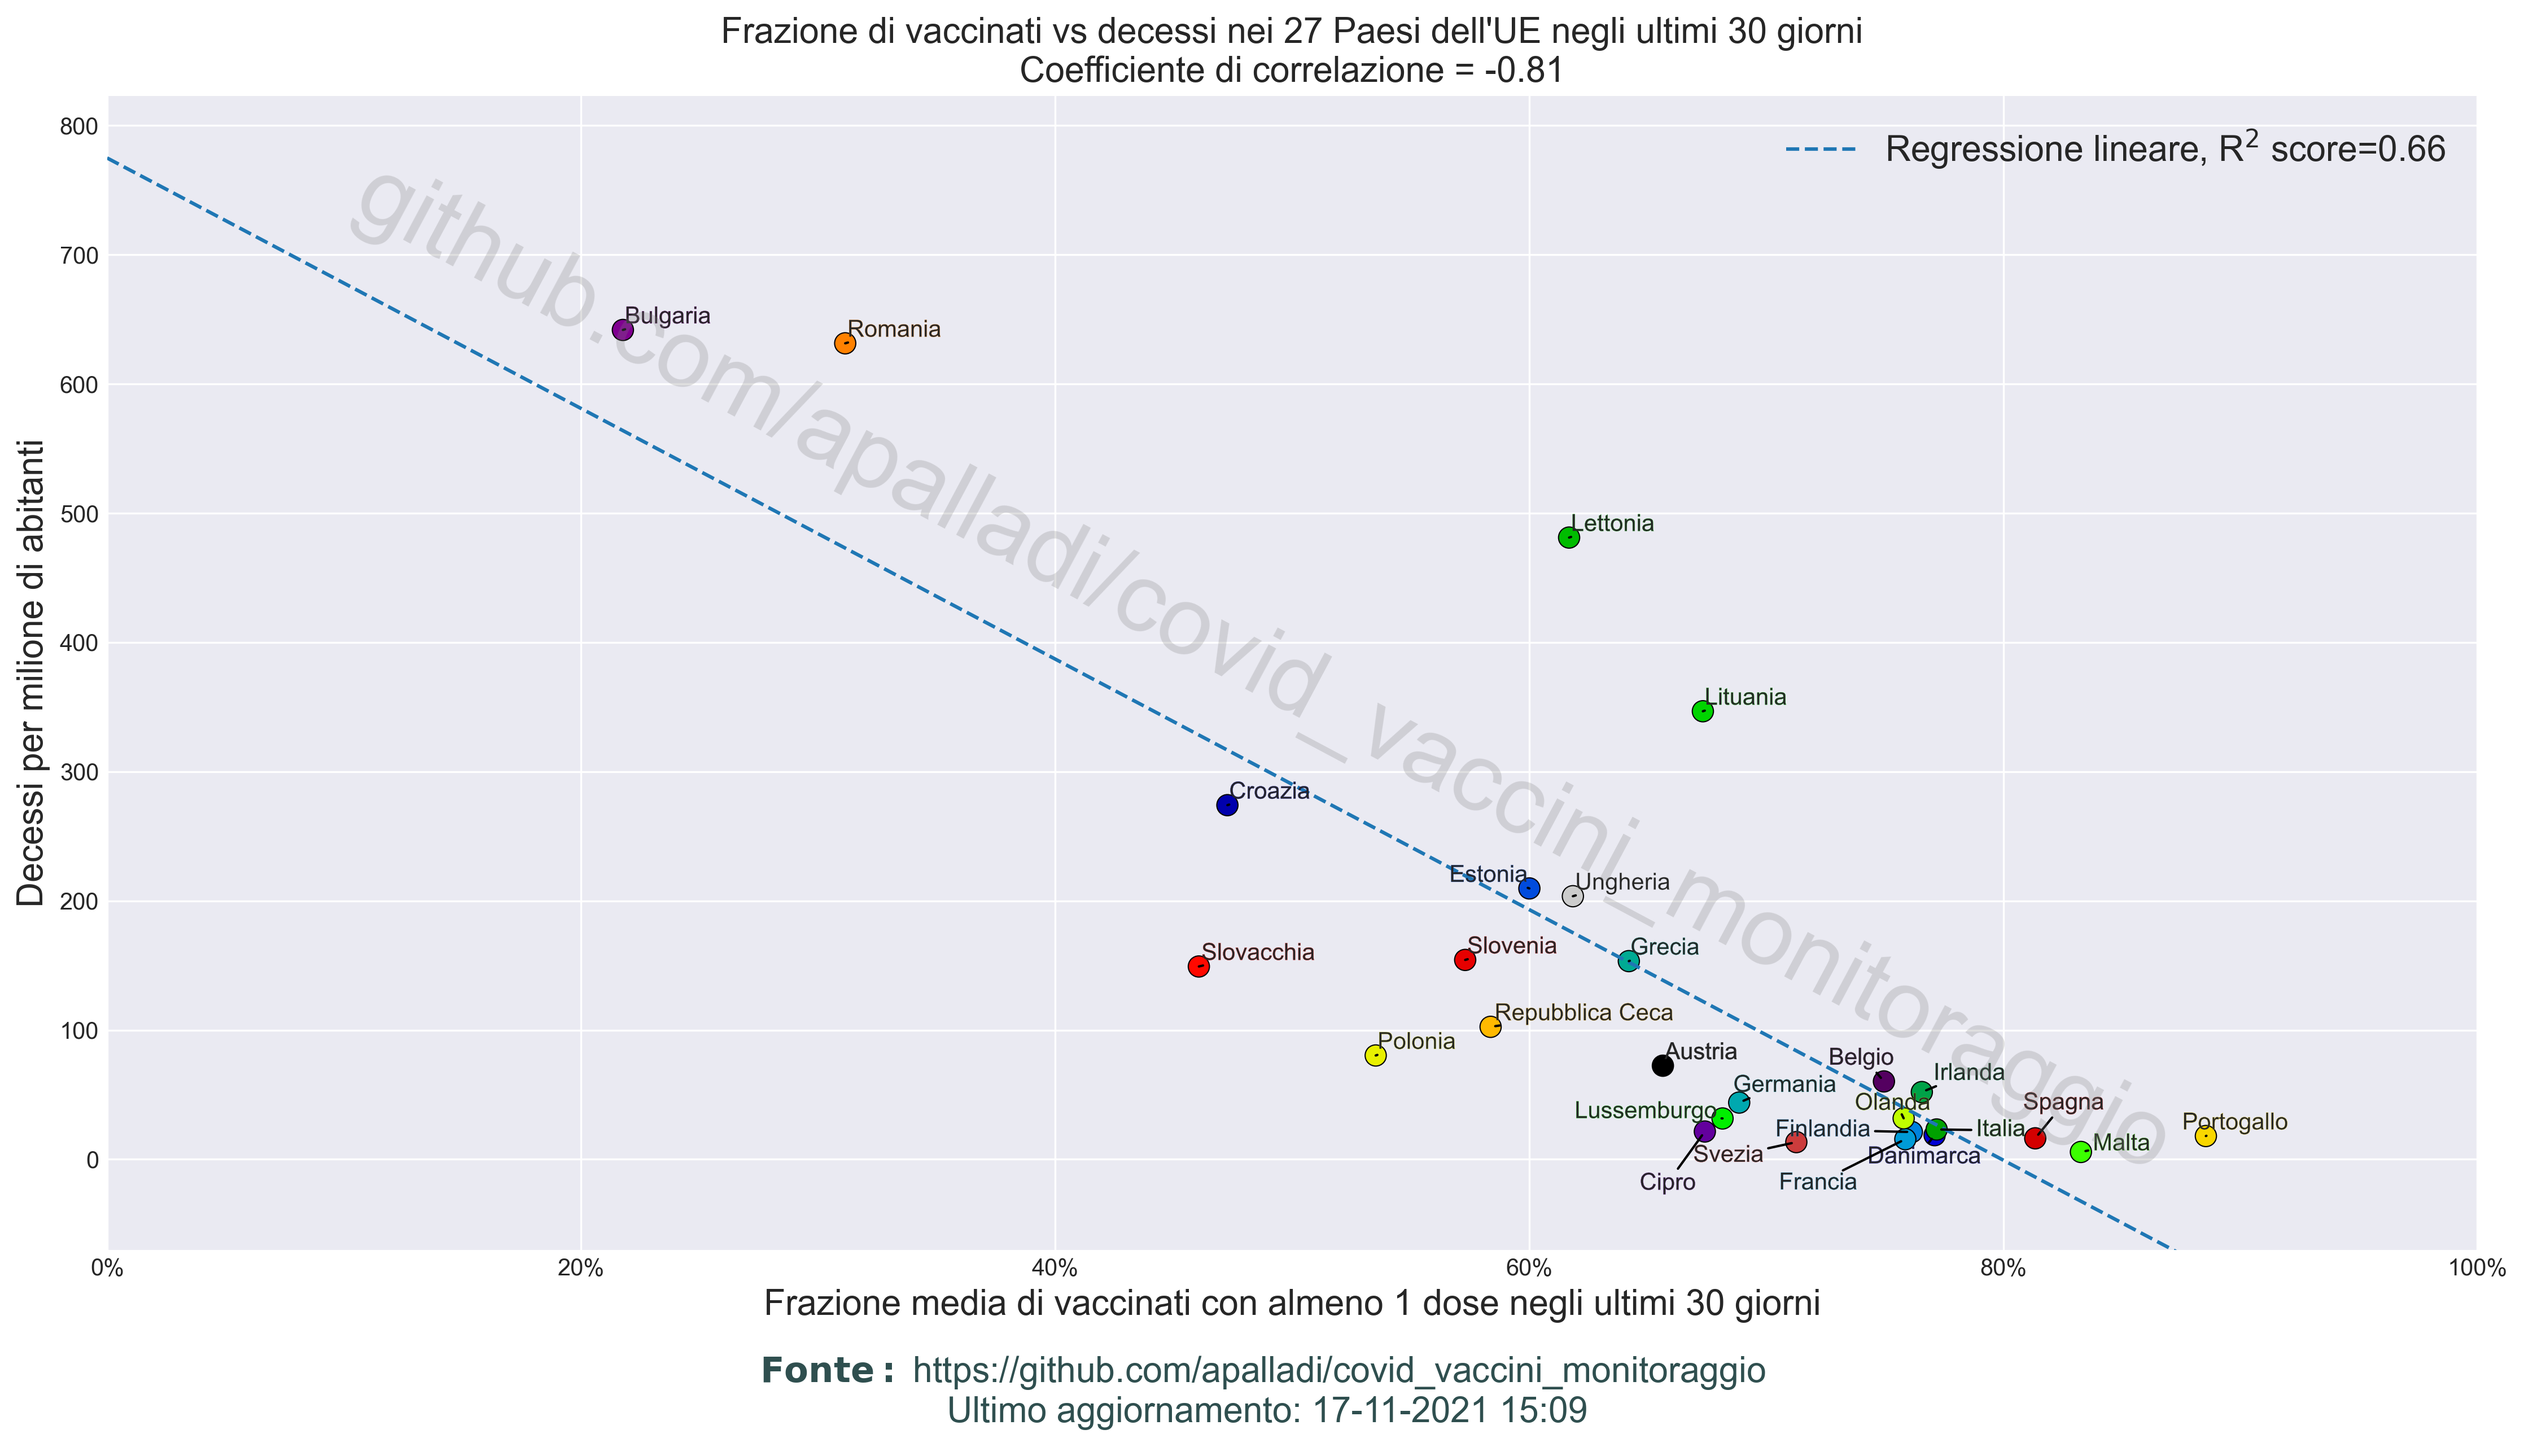
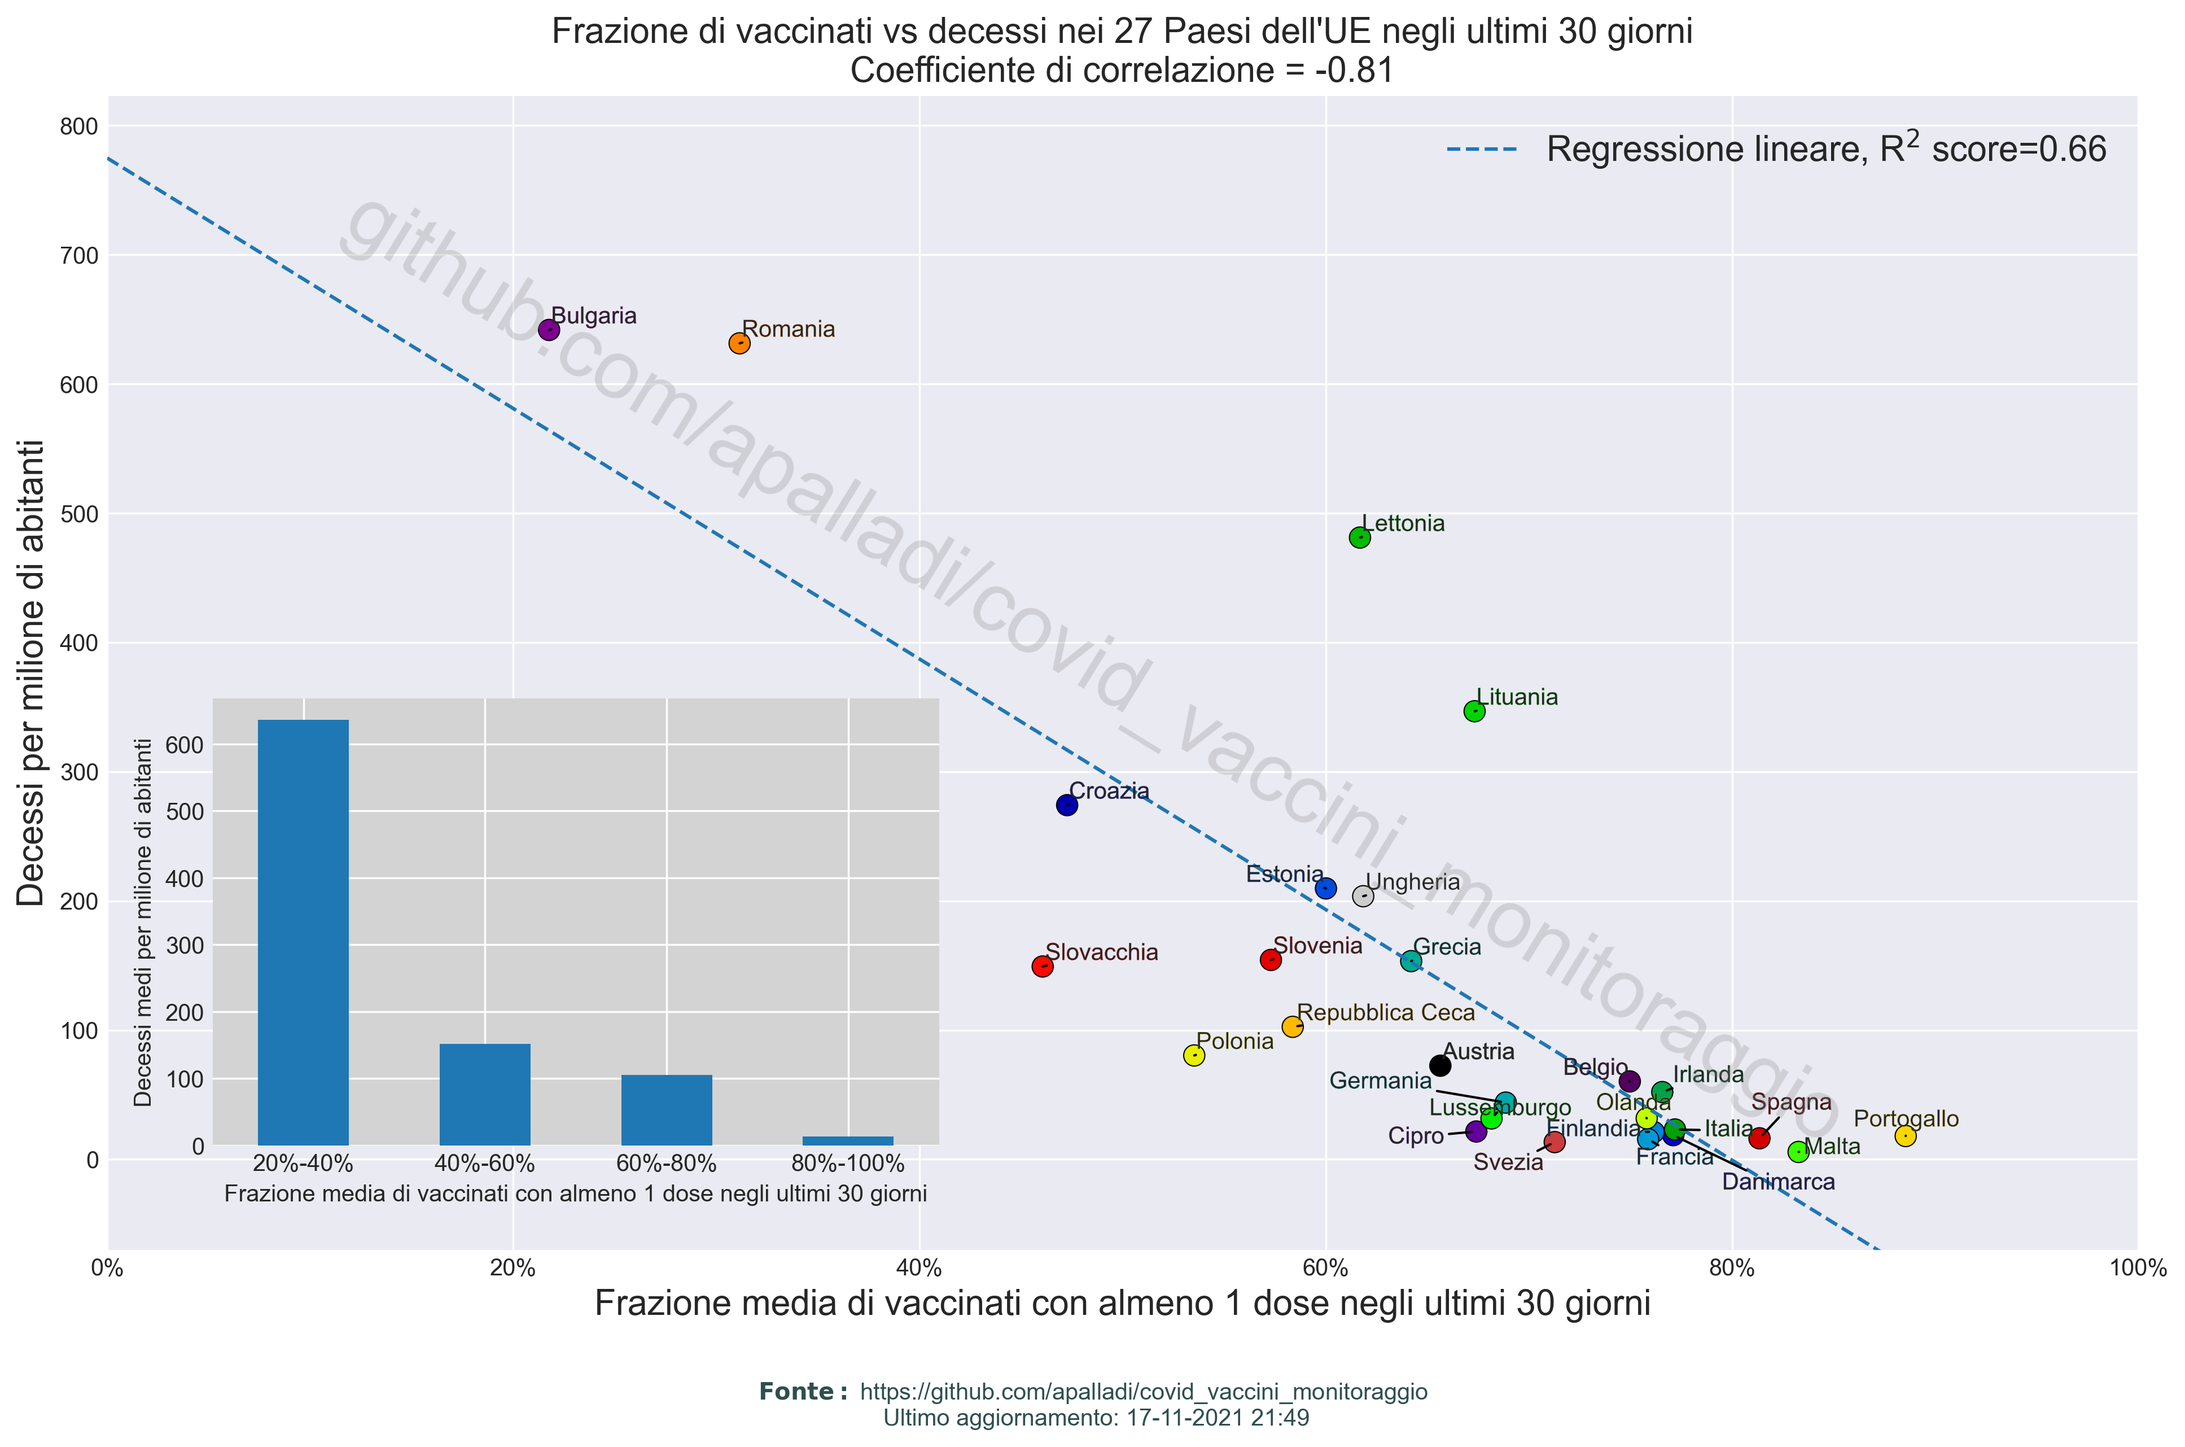
aggiunto barplot per vaccinati vs decessi (#44)
* aggiunto barplot per vaccinati vs decessi

* usa plot dentro altro plot

diff --git a/scripts/confronti_europei.py b/scripts/confronti_europei.py
@@ -173,6 +173,24 @@ def compute_max_correlation():
     return ideal_window
 
 
+def map_vaccinated(f_vacc):
+    if f_vacc >=20 and f_vacc < 40:
+        return '20%-40%'
+    elif f_vacc >=40 and f_vacc < 60:
+        return '40%-60%'
+    elif f_vacc >=60 and f_vacc < 80:
+        return '60%-80%'
+    elif f_vacc >=80 and f_vacc <= 100:
+        return '80%-100%'
+    
+    
+def group_vaccinated(vacc_res_2021, dec_res_2021):
+    df_res = pd.DataFrame(vacc_res_2021, columns=['vaccinati'])
+    df_res['deceduti'] = dec_res_2021   
+    df_res['vacc_mapped'] = df_res['vaccinati'].apply(map_vaccinated)
+    df_grouped = df_res.groupby('vacc_mapped').mean()['deceduti']
+    return df_grouped
+
 # Rappresentazione grafica risultati
 def plot_selection(show=False):
     """ Plot dati epidemiologia e vaccini dei paesi selezionati """
@@ -256,12 +274,13 @@ def plot_selection(show=False):
 def plot_correlazione_vaccini_decessi(vacc_res_2021, dec_res_2021, x_grid, y_grid, window, score, show=False):
     """ scatter plot correlazione vaccini e decessi """
 
-    fig = plt.figure(figsize=(15, 8))
+    fig = plt.figure(figsize=(13, 8))
 
     # scatter plot
     # genera lista di colori e dimensioni
     colors = plt.cm.nipy_spectral(np.linspace(0, 1, len(paesi_eu_ita)))
     sizes = 3*len(paesi_eu_ita)
+    
     plt.scatter(vacc_res_2021, dec_res_2021, c=colors,
                 edgecolor="black", linewidth=0.5, s=sizes)
 
@@ -290,7 +309,17 @@ def plot_correlazione_vaccini_decessi(vacc_res_2021, dec_res_2021, x_grid, y_gri
     plt.xticks(np.arange(0, 101, 20), ["0%", "20%", "40%", "60%", "80%", "100%"])
     plt.grid()
     plt.legend(fontsize=15)
-
+    
+    #barplot 
+    df_grouped = group_vaccinated(vacc_res_2021, dec_res_2021)
+    a = plt.axes([.1, .15, .33, .33], facecolor='lightgrey')
+    df_grouped.plot(kind='bar', ax=a)
+    plt.xticks(rotation=0)
+    plt.grid()
+    plt.xlabel(f"Frazione media di vaccinati con almeno 1 dose negli ultimi {window} giorni")
+    plt.ylabel('Decessi medi per milione di abitanti')
+    #plt.title("Frazione di vaccinati vs decessi nei 27 Paesi dell'UE negli ultimi "+str(window)+" giorni")
+    
     # Add watermarks
     ax = plt.gca()
     add_watermark(fig, ax.xaxis.label.get_fontsize())
@@ -323,19 +352,16 @@ if __name__ == "__main__":
 
     # plot correlazione vaccini vs. decessi per paesi eu
     # calcola finestra temporale per cui si ottiene massima correlazione
-    ideal_window = compute_max_correlation()
     window = 30  # giorni
     # recupera dati per tale finestra temporale
     vacc_res_2021, dec_res_2021 = compute_vaccini_decessi_eu(window, fully=False, last_day=False)
     x_grid, y_grid, score = linear_fit(vacc_res_2021, dec_res_2021)
     # calcola coefficiente di correlazione (pearson)
     corr_coeff = round(np.corrcoef(vacc_res_2021, dec_res_2021)[0, 1], 2)
-
+    
+    print('Finestra temporale scelta', window, 'giorni')
     print("Coefficiente di correlazione tra vaccinati e deceduti:", corr_coeff)
-    print("Finestra temporale in cui si registra la massima correlazione:",
-          ideal_window,
-          "giorni")
-
+    
     plot_correlazione_vaccini_decessi(vacc_res_2021,
                                       dec_res_2021,
                                       x_grid,
